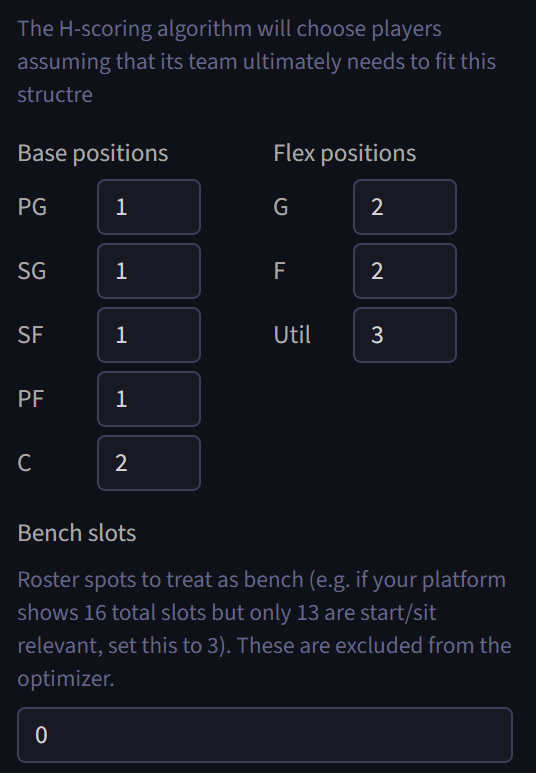
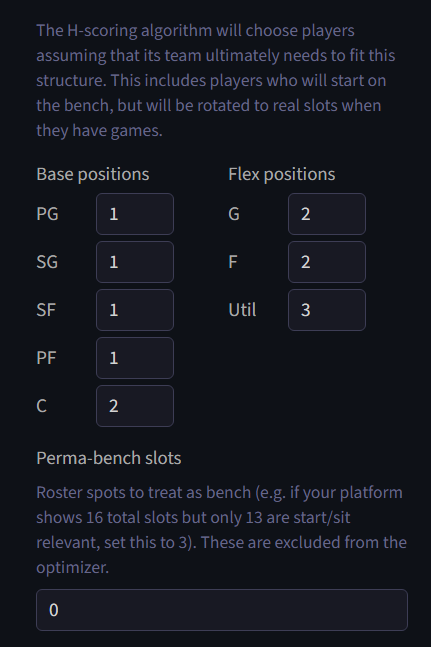
fixed the roster table, and added to documentation

diff --git a/frontend/data_entry/season/season_rosters.ts b/frontend/data_entry/season/season_rosters.ts
@@ -68,10 +68,11 @@ export function renderSeasonRosters(leftEl: HTMLElement, rightEl: HTMLElement): 
         for (let d = 0; d < nDrafters; d++) {
             const cell = row.insertCell()
             const sel  = makeCustomSelect(
-                `sr-player-${r}-${d}`,
-                [...blankOption, ...playerNames.map(n => ({ value: n, label: n }))],
+                `sr-player-${r}-${d}`
+              , [...blankOption, ...playerNames.map(n => ({ value: n, label: n }))]
+              , undefined
+              , true
             )
-            sel.element.style.fontSize = '0.75rem'
             // Pre-fill from snake draft if a player is available for this slot
             const prefill = snakeDraft[d]?.[r]
             if (prefill) sel.setValue(prefill)
@@ -81,63 +82,134 @@ export function renderSeasonRosters(leftEl: HTMLElement, rightEl: HTMLElement): 
         selects.push(rowSelects)
     }
 
-    // ── Copy support: copy the full grid as tab/newline-separated text ───
-    table.addEventListener('copy', (e: ClipboardEvent) => {
-        // Only intercept when focus is inside the table body
-        const active = document.activeElement
-        if (!active || !table.contains(active)) return
+    // ── Excel-style cell selection + Copy/Paste ────────────────────────────────
 
-        const lines: string[] = []
-        for (let r = 0; r < nPicks; r++) {
-            const cols: string[] = []
-            for (let d = 0; d < nDrafters; d++) {
-                cols.push(selects[r]?.[d]?.getValue() ?? '')
-            }
-            lines.push(cols.join('\t'))
+    // Selection range (grid coordinates, not DOM indices)
+    let anchorRow = 0, anchorCol = 0
+    let focusRow  = 0, focusCol  = 0
+
+    function selectionBounds() {
+        return {
+            r1: Math.min(anchorRow, focusRow)
+          , r2: Math.max(anchorRow, focusRow)
+          , c1: Math.min(anchorCol, focusCol)
+          , c2: Math.max(anchorCol, focusCol)
         }
+    }
 
-        e.preventDefault()
-        e.clipboardData?.setData('text/plain', lines.join('\n'))
+    function clearSelectionHighlight(): void {
+        table.querySelectorAll('.entry-cell-selected').forEach(el =>
+            el.classList.remove('entry-cell-selected')
+        )
+    }
+
+    function applySelectionHighlight(): void {
+        clearSelectionHighlight()
+        const { r1, r2, c1, c2 } = selectionBounds()
+        for (let r = r1; r <= r2; r++) {
+            for (let c = c1; c <= c2; c++) {
+                // tbody row r, cell c+1 (cell 0 is the pick label)
+                const cell = tbody.rows[r]?.cells[c + 1]
+                if (cell) cell.classList.add('entry-cell-selected')
+            }
+        }
+    }
+
+    /** Resolves a click target to grid coordinates, or null if outside data cells. */
+    function cellCoordsFromEvent(e: MouseEvent): { row: number; col: number } | null {
+        const td = (e.target as HTMLElement).closest('td') as HTMLTableCellElement | null
+        if (!td || !tbody.contains(td)) return null
+        const tr = td.parentElement as HTMLTableRowElement
+        const col = td.cellIndex - 1   // subtract pick label column
+        const row = tr.rowIndex - 1     // subtract thead row
+        if (row < 0 || col < 0 || row >= nPicks || col >= nDrafters) return null
+        return { row, col }
+    }
+
+    let dragging = false
+
+    table.addEventListener('mousedown', (e: MouseEvent) => {
+        const coords = cellCoordsFromEvent(e)
+        if (!coords) return
+        if (e.shiftKey) {
+            e.preventDefault()
+            focusRow = coords.row
+            focusCol = coords.col
+        } else {
+            anchorRow = coords.row
+            anchorCol = coords.col
+            focusRow  = coords.row
+            focusCol  = coords.col
+            dragging  = true
+        }
+        applySelectionHighlight()
     })
 
-    // ── Paste support: paste tab/newline-separated data into the grid ────
-    table.addEventListener('paste', (e: ClipboardEvent) => {
-        const text = e.clipboardData?.getData('text/plain')
-        if (!text) return
+    table.addEventListener('mousemove', (e: MouseEvent) => {
+        if (!dragging) return
+        const coords = cellCoordsFromEvent(e)
+        if (!coords) return
+        if (coords.row !== focusRow || coords.col !== focusCol) {
+            focusRow = coords.row
+            focusCol = coords.col
+            applySelectionHighlight()
+        }
+    })
 
-        // Find which cell is focused
-        const active = document.activeElement
-        if (!active) return
-        const cell = active.closest('td')
-        if (!cell) return
-        const row = cell.parentElement as HTMLTableRowElement
-        if (!row) return
+    document.addEventListener('mouseup', () => { dragging = false })
 
-        const startRow = row.rowIndex - 1  // subtract 1 for thead row
-        const startCol = cell.cellIndex - 1 // subtract 1 for pick label column
-        if (startRow < 0 || startCol < 0) return
+    table.addEventListener('keydown', (e: KeyboardEvent) => {
+        const ctrl = e.ctrlKey || e.metaKey
+        if (!ctrl) return
 
-        const lines = text.replace(/\r\n/g, '\n').replace(/\r/g, '\n').trimEnd().split('\n')
-
-        let changed = false
-        for (let dr = 0; dr < lines.length; dr++) {
-            const r = startRow + dr
-            if (r >= nPicks) break
-            const values = lines[dr].split('\t')
-            for (let dc = 0; dc < values.length; dc++) {
-                const d = startCol + dc
-                if (d >= nDrafters) break
-                const val = values[dc].trim()
-                if (val && selects[r]?.[d]) {
-                    selects[r][d].setValue(val)
-                    changed = true
-                }
-            }
+        if (e.key === 'a') {
+            // Select all data cells
+            e.preventDefault()
+            anchorRow = 0; anchorCol = 0
+            focusRow = nPicks - 1; focusCol = nDrafters - 1
+            applySelectionHighlight()
+            return
         }
 
-        if (changed) {
+        if (e.key === 'c') {
             e.preventDefault()
-            rebuildInspector()
+            const { r1, r2, c1, c2 } = selectionBounds()
+            const lines: string[] = []
+            for (let r = r1; r <= r2; r++) {
+                const cols: string[] = []
+                for (let c = c1; c <= c2; c++) {
+                    cols.push(selects[r]?.[c]?.getValue() ?? '')
+                }
+                lines.push(cols.join('\t'))
+            }
+            navigator.clipboard.writeText(lines.join('\n'))
+
+        } else if (e.key === 'v') {
+            e.preventDefault()
+            const { r1, c1 } = selectionBounds()
+
+            navigator.clipboard.readText().then(text => {
+                if (!text) return
+                const lines = text.replace(/\r\n/g, '\n').replace(/\r/g, '\n').trimEnd().split('\n')
+
+                let changed = false
+                for (let dr = 0; dr < lines.length; dr++) {
+                    const r = r1 + dr
+                    if (r >= nPicks) break
+                    const values = lines[dr].split('\t')
+                    for (let dc = 0; dc < values.length; dc++) {
+                        const d = c1 + dc
+                        if (d >= nDrafters) break
+                        const val = values[dc].trim()
+                        if (selects[r]?.[d]) {
+                            selects[r][d].setValue(val)
+                            changed = true
+                        }
+                    }
+                }
+
+                if (changed) rebuildInspector()
+            })
         }
     })
 

diff --git a/frontend/custom_select.ts b/frontend/custom_select.ts
@@ -41,9 +41,10 @@ export interface CustomSelect {
  * @param defaultValue - Initially selected value; falls back to `options[0]` if omitted
  */
 export function makeCustomSelect(
-    id:           string,
-    options:      CustomSelectOption[],
-    defaultValue?: string,
+    id:           string
+  , options:      CustomSelectOption[]
+  , defaultValue?: string
+  , doubleClickToOpen?: boolean
 ): CustomSelect {
 
     let currentOptions = [...options]
@@ -68,6 +69,7 @@ export function makeCustomSelect(
     searchInput.type      = 'text'
     searchInput.className = 'cs-search-input'
     searchInput.autocomplete = 'off'
+    searchInput.spellcheck   = false
 
     const arrow = document.createElement('span')
     arrow.className   = 'cs-arrow'
@@ -139,20 +141,32 @@ export function makeCustomSelect(
         wrapper.classList.remove('cs-open')
         searchInput.value       = getLabelFor(currentValue)
         searchInput.placeholder = ''
+        if (doubleClickToOpen) searchInput.readOnly = true
     }
 
     // ── Event wiring ───────────────────────────────────────────────────────
 
-    // Clicking anywhere on the trigger toggles the dropdown.
-    trigger.addEventListener('mousedown', e => {
-        if (e.target === searchInput) return   // let the search input handle its own focus
-        e.preventDefault()
-        if (dropdown.hidden) { searchInput.focus(); open() } else { close(); searchInput.blur() }
-    })
+    if (doubleClickToOpen) {
+        // Double-click mode: single click just focuses (for copy/paste);
+        // double-click opens the dropdown for editing.
+        searchInput.readOnly = true
+        trigger.addEventListener('dblclick', () => {
+            searchInput.readOnly = false
+            searchInput.focus()
+            open()
+        })
+    } else {
+        // Default: single click toggles the dropdown.
+        trigger.addEventListener('mousedown', e => {
+            if (e.target === searchInput) return
+            e.preventDefault()
+            if (dropdown.hidden) { searchInput.focus(); open() } else { close(); searchInput.blur() }
+        })
 
-    searchInput.addEventListener('focus', () => {
-        if (dropdown.hidden) open()
-    })
+        searchInput.addEventListener('focus', () => {
+            if (dropdown.hidden) open()
+        })
+    }
 
     searchInput.addEventListener('input', () => {
         if (dropdown.hidden) open()

diff --git a/frontend/styles/styles.css b/frontend/styles/styles.css
@@ -1011,9 +1011,19 @@ tr {
 
 .entry-table {
     border-collapse: collapse;
-    width: 100%;
     font-size: 0.8rem;
     table-layout: fixed;
+}
+
+/* Hide dropdown arrows inside roster entry table cells */
+.entry-table td .cs-arrow {
+    display: none;
+}
+
+/* Give each drafter column enough room for full player names */
+.entry-table th:not(:first-child),
+.entry-table td:not(:first-child) {
+    min-width: 140px;
 }
 
 .entry-table th {
@@ -1029,9 +1039,23 @@ tr {
 .entry-table td {
     background: light-dark(#ffffff, #1a1c28);
     border: 1px solid light-dark(#8080a0, #3d3d55);
-    padding: 2px 4px;
+    padding: 0;
     text-align: center;
     color: light-dark(#555555, #aaaaaa);
+}
+
+/* Remove inner border/padding from custom selects inside entry table cells */
+.entry-table td .cs-trigger {
+    border: none;
+    border-radius: 0;
+    min-height: 24px;
+    padding: 2px 4px;
+    font-size: 0.7rem;
+}
+
+.entry-table td .cs-trigger:focus,
+.entry-table td .cs-open .cs-trigger {
+    outline: none;
 }
 
 .entry-table td.current-pick {
@@ -1054,9 +1078,14 @@ tr {
     width: 48px;
 }
 
+.entry-table td.entry-cell-selected {
+    outline: 2px solid light-dark(#5577cc, #6677aa);
+    outline-offset: -2px;
+}
+
 /* Scrollable wrapper for tall/wide entry tables */
 .entry-table-scroll {
-    max-height: 340px;
+    max-height: 420px;
     overflow: auto;
 }
 

diff --git a/frontend/parameter_collection/slot_counts.ts b/frontend/parameter_collection/slot_counts.ts
@@ -55,7 +55,10 @@ export function renderSlotCounts(container: HTMLElement): void {
 
     const warning = document.createElement('div')
     warning.className = 'sidebar-caption'
-    warning.textContent = 'The H-scoring algorithm will choose players assuming that its team ultimately needs to fit this structre'
+    warning.textContent = `The H-scoring algorithm will choose players assuming that 
+                            its team ultimately needs to fit this structure. This 
+                            includes players who will start on the bench, but will
+                            be rotated to real slots when they have games.`
     container.append(warning)
 
     const grid = document.createElement('div')
@@ -85,7 +88,7 @@ export function renderSlotCounts(container: HTMLElement): void {
     }
 
     // Bench slots
-    container.append(makeLabel('sc-bench-slots', 'Bench slots'))
+    container.append(makeLabel('sc-bench-slots', 'Perma-bench slots'))
 
     const benchCaption = document.createElement('div')
     benchCaption.className = 'sidebar-caption'

diff --git a/frontend/layout.ts b/frontend/layout.ts
@@ -184,7 +184,7 @@ function buildSeasonNav(): void {
 function activateSeasonTab(tabId: string): void {
     currentSeasonTab = tabId
 
-    document.querySelectorAll('.pick-btn').forEach(btn => {
+    document.querySelectorAll('.season-tab-btn').forEach(btn => {
         btn.classList.toggle('active', (btn as HTMLElement).dataset.tab === tabId)
     })
 

diff --git a/docs/season.md b/docs/season.md
@@ -83,8 +83,6 @@ Rosters can be manually input or edited on this tab. It is unneccesary if roster
 
 ![](img/rosters.png)
 
-Information from the roster table will only flow through to other components after the 'Lock in' button is pressed. This is to prevent the website from continually updating itself while many players are being added at the same time. 
-
 Only players from the loaded dataset can be added to the roster table, which are shown on a searchable drop-down for each cell. The same player can be added multiple times.
 
 ![](img/rosterjokic.png)
@@ -92,7 +90,7 @@ Only players from the loaded dataset can be added to the roster table, which are
 Nikola Jokic is still shown as an option after already being taken by another team
 ///
 
-Generally draft results can be copy-pasted from the drafting view into an Excel and then into this table, so long as the dataset of valid players remains the same. Occasionally there are bugs with copy-pasting into the rosters table, such as the first column not being copied over. In that case, the few remaining players can be entered by hand. 
+Generally draft results can be copy-pasted from the drafting view into an Excel and then into this table, so long as the dataset of valid players remains the same.
 
 ### Roster inspection
 
